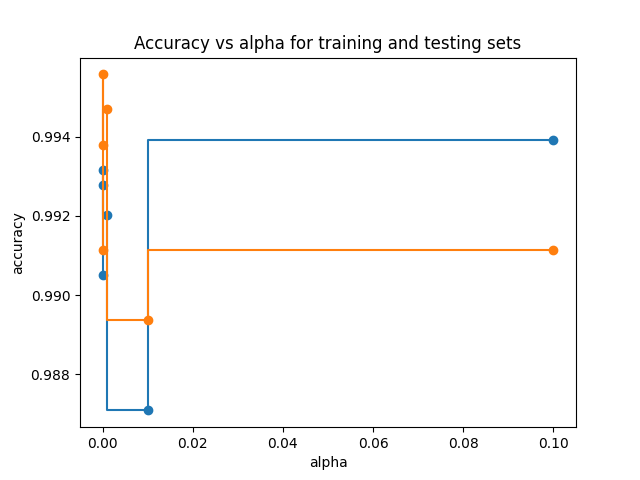
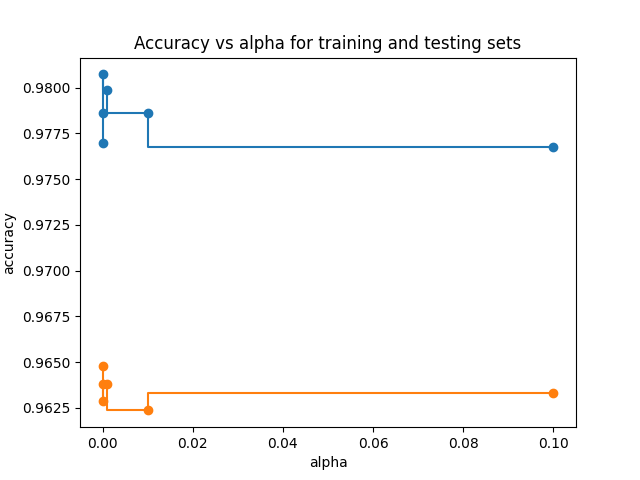
finishing up

diff --git a/svm/svm_train.py b/svm/svm_train.py
@@ -6,6 +6,9 @@ use 2 diff kernel functions
 
 class SVM:
 
+    def __init__(self):
+        self.clfs = []
+
     @staticmethod
     def get_classifer(x, y):
         # svm
@@ -21,18 +24,34 @@ class SVM:
             cache_size=200,
             class_weight=None,
             verbose=False,
-            max_iter=1,
+            max_iter=100,
             decision_function_shape='ovr',
             break_ties=False,
-            random_state=None
-        ) # doesnt work
+            random_state=23
+        )
         # linear kernel
-        lin = svmm.LinearSVC()
+        # should scale better than kernel='linear'
+        lin = svmm.LinearSVC(
+            penalty='l2',
+            loss='squared_hinge',
+            dual=True,
+            tol=1e-4,
+            C=1.0,
+            multi_class='ovr',
+            fit_intercept=True,
+            intercept_scaling=1,
+            class_weight=None,
+            verbose=0,
+            random_state=1,
+            max_iter=100
+        )
         return [
+            (svm, 'Support Vector Machine', 'svm_model'),
             (lin, 'Linear SVM', 'lin_svm_model'),
-            (svm, 'Support Vector Machine', 'svm_model')
         ]
 
-    @staticmethod
-    def save_figures(clf):
+    def save_figures(self, clf):
+        self.clfs.append(clf)
+
+    def plot(self, x_train, y_train, x_test, y_test):
         pass

diff --git a/neural_network/nn_train.py b/neural_network/nn_train.py
@@ -25,12 +25,12 @@ class NeuralNetwork:
     
     def get_classifer(self, x, y):
         self.alpha_list = 10.0 ** -np.arange(1, 7)
-        # self.alpha_list = [0.001]
+        # self.alpha_list = [0.0001]
         nn_list = []
         for a in self.alpha_list:
             nn = MLPClassifier(
                 solver="lbfgs",
-                hidden_layer_sizes=(3,2),
+                hidden_layer_sizes=(3,),
                 activation='relu',
                 batch_size='auto',
                 alpha=a, # e-5
@@ -39,7 +39,7 @@ class NeuralNetwork:
                 power_t=0.5,
                 max_iter=400,
                 shuffle=True,
-                random_state=1,
+                random_state=3,
                 tol=0.0001,
                 verbose=False,
                 warm_start=False,

diff --git a/boosting/boosting_train.py b/boosting/boosting_train.py
@@ -7,11 +7,23 @@ pruning
 
 class Boosting:
 
-    @staticmethod
-    def get_classifer(x, y):
-        b = AdaBoostClassifier()
+    def __init__(self):
+        self.clfs = []
+
+    def get_classifer(self, x, y):
+        b = AdaBoostClassifier(
+            base_estimator=None,
+            n_estimators=50,
+            learning_rate=0.5,
+            algorithm='SAMME.R',
+            random_state=23
+        )
         return [(b, 'Boosting', 'boosting_model')]
 
-    @staticmethod
-    def save_figures(clf):
+    def save_figures(self, clf):
+        self.clfs.append(clf)
+        pass
+
+    
+    def plot(self, x_train, y_train, x_test, y_test):
         pass

diff --git a/run.py b/run.py
@@ -182,5 +182,7 @@ for model in classifiers:
 # knnclass = classifiers[0]
 # knnclass.plot(x_train, y_train, x_test, y_test)
 
-nnclass = classifiers[0]
-nnclass.plot(x_train, y_train, x_test, y_test)
+# nnclass = classifiers[0]
+# nnclass.plot(x_train, y_train, x_test, y_test)
+
+

diff --git a/evaluation/plot_learning_curve.py b/evaluation/plot_learning_curve.py
@@ -1,3 +1,6 @@
+# this file was copied from a scikit learn example
+# https://scikit-learn.org/stable/auto_examples/model_selection/plot_learning_curve.html
+
 import numpy as np
 import matplotlib as plt
 
